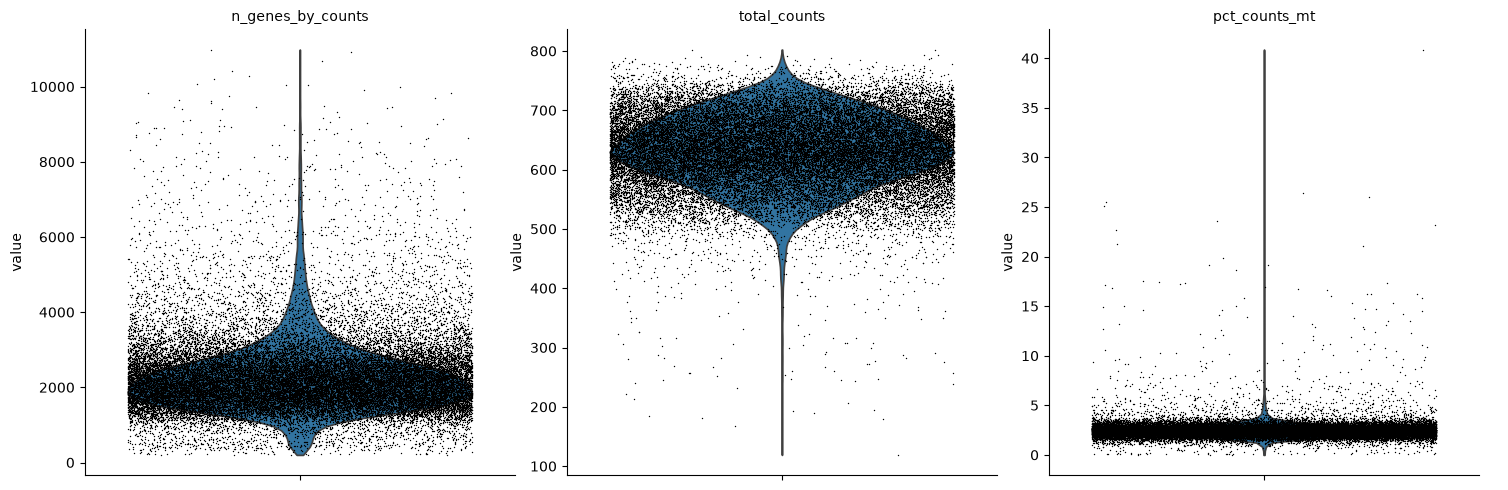
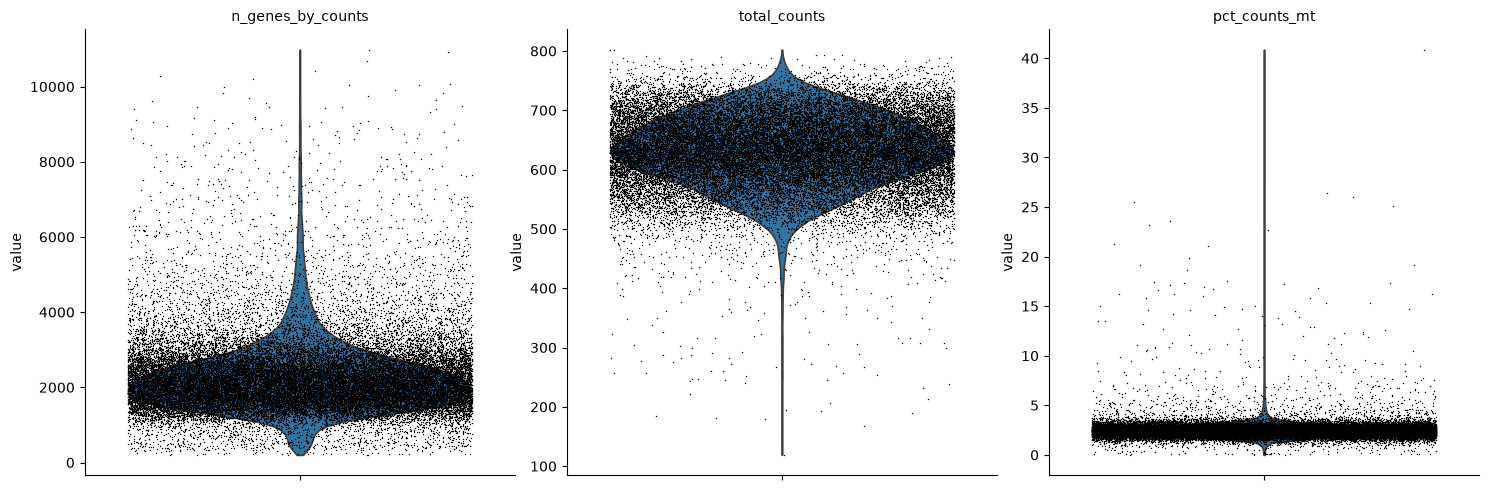
finished project code

diff --git a/README.md b/README.md
@@ -1,0 +1,38 @@
+---
+
+# Single-Cell Analysis of Immune Response to Nanoplastic Particles
+
+**Course:** Genomic Informatics (2026)
+
+## 1. Prerequisites
+- **Python:** version 3.12
+- **Ubuntu/Debian:** sudo apt install build-essential python3.12-dev
+
+## Environment setup
+
+```bash
+# Create and activate environment
+python3 -m venv venv
+source venv/bin/activate
+```
+
+## 3. Data Acquisition
+Put files from [Zenodo](https://zenodo.org/records/15866724) in a folder named `data/`.
+
+| Filename | Condition |
+| :--- | :--- |
+| `filtered_feature_bc_matrix.h5ad` | 40nm PSNPs |
+| `filtered_feature_bc_matrix_Sample2.h5ad` | 200nm PSNPs |
+| `filtered_feature_bc_matrix_Sample3.h5ad` | 40nm + 200nm Mixture |
+| `filtered_feature_bc_matrix_Sample4.h5ad` | Control (No exposure) |
+
+## 4. Run locally
+
+1. Install VSCodium
+2. Install Jupyter and Python extensions in VSCodium
+3. Set up environment
+4. Select kernel from the environment
+5. Run
+
+## 5. Outputs
+Outputs will be in the `results/` directory.
